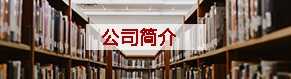
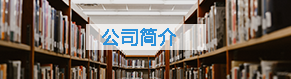
update color style

Changed region(s): [[0.3402, 0.3544, 0.6186, 0.5823]]

diff --git a/css/iztgm.css b/css/iztgm.css
@@ -288,7 +288,7 @@ select {
   width: 24px;
   height: 24px;
   font-size: 14px;
-  background: #a60100;
+  background: #2b90d9;
   color: #fff;
   border-radius: 100%;
   text-align: center;
@@ -304,7 +304,7 @@ select {
   font-size: 14px;
 }
 .die {
-  color: #a50000!important;
+  color: #2b90d9 !important;
 }
 .die:before {
   content: "|";
@@ -438,7 +438,7 @@ select {
 }
 .more {
   position: absolute;
-  color: #a60000;
+  color: #2b90d9;
   bottom: 8px;
   right: 15px;
   line-height: 13px;
@@ -450,7 +450,7 @@ select {
   color: #d33535;
 }
 .more a {
-  color: #a60000;
+  color: #2b90d9;
   font-family: "Calibri-Bold";
 }
 .content {
@@ -536,7 +536,7 @@ select {
 }
 .tq .title {
   position: absolute;
-  color: #a60000;
+  color: #2b90d9;
   top: 2px;
   left: 27px;
   font-size: 20px;
@@ -616,7 +616,7 @@ select {
   background: url(../imgs/arrow-red.png) no-repeat right center;
 }
 .cybd .tabs a {
-  color: #a60000;
+  color: #2b90d9;
 }
 .cybd .tabs a:hover {
   color: #d33535;
@@ -765,14 +765,14 @@ select {
   white-space: nowrap;
 }
 .items .item .info .status a {
-  color: #a60000;
+  color: #2b90d9;
   margin: 0 5px;
 }
 .items .item:hover {
   background: #fff;
 }
 .items .item:hover .date {
-  border-right: 1px solid #a60000;
+  border-right: 1px solid #2b90d9;
 }
 .tq-box,
 .gzsx-box {

diff --git a/css/index.css b/css/index.css
@@ -288,7 +288,7 @@ select {
   width: 24px;
   height: 24px;
   font-size: 14px;
-  background: #a60100;
+  background: #2b90d9;
   color: #fff;
   border-radius: 100%;
   text-align: center;
@@ -304,7 +304,7 @@ select {
   font-size: 14px;
 }
 .die {
-  color: #a50000!important;
+  color: #2b90d9 !important;
 }
 .die:before {
   content: "|";
@@ -438,7 +438,7 @@ select {
 }
 .more {
   position: absolute;
-  color: #a60000;
+  color: #2b90d9;
   bottom: 8px;
   right: 15px;
   line-height: 13px;
@@ -450,7 +450,7 @@ select {
   color: #d33535;
 }
 .more a {
-  color: #a60000;
+  color: #2b90d9;
   font-family: "Calibri-Bold";
 }
 .content {
@@ -652,7 +652,7 @@ select {
   font-size: 16px;
 }
 .gpxx .more a {
-  color: #a60000;
+  color: #2b90d9;
   cursor: pointer;
   font-family: "Calibri-Bold";
 }
@@ -692,7 +692,7 @@ select {
   margin-bottom: 13px;
 }
 .gsgk .title {
-  color: #a60000;
+  color: #2b90d9;
   margin: 6px 0;
 }
 .gsgk p {
@@ -749,7 +749,7 @@ select {
   background-color: #fff;
 }
 .swiper-pagination-bullet-active {
-  background-color: #a60000;
+  background-color: #2b90d9;
 }
 .swiper-container-horizontal > .swiper-pagination-bullets,
 .swiper-pagination-custom,

diff --git a/less/iztgm.less b/less/iztgm.less
@@ -71,7 +71,7 @@
     }
     .title{
         position: absolute;
-        color: #a60000;
+        color: @font-blue;
         top: 2px;
         left: 27px;
         font-size: 20px;
@@ -156,7 +156,7 @@
         padding-right: 10px;
         background: url(../imgs/arrow-red.png) no-repeat right center;
         a{
-            color: #a60000;
+            color: @font-blue;
             &:hover{
                 .moreHover;
             }
@@ -314,14 +314,14 @@
                 color: #666666;
                 .text-ellipsis;
                 a{
-                    color: #a60000;
+                    color: @font-blue;
                     margin: 0 5px;
                 }
             }
         }
         &:hover{
             .date{
-                border-right: 1px solid #a60000;
+                border-right: 1px solid @font-blue;
             }
             background: #fff;
         }

diff --git a/css/company.css b/css/company.css
@@ -288,7 +288,7 @@ select {
   width: 24px;
   height: 24px;
   font-size: 14px;
-  background: #a60100;
+  background: #2b90d9;
   color: #fff;
   border-radius: 100%;
   text-align: center;
@@ -304,7 +304,7 @@ select {
   font-size: 14px;
 }
 .die {
-  color: #a50000!important;
+  color: #2b90d9 !important;
 }
 .die:before {
   content: "|";
@@ -438,7 +438,7 @@ select {
 }
 .more {
   position: absolute;
-  color: #a60000;
+  color: #2b90d9;
   bottom: 8px;
   right: 15px;
   line-height: 13px;
@@ -450,7 +450,7 @@ select {
   color: #d33535;
 }
 .more a {
-  color: #a60000;
+  color: #2b90d9;
   font-family: "Calibri-Bold";
 }
 .content {
@@ -539,7 +539,7 @@ select {
 .dwxxq .titles .t2 .t,
 .dwxxq .titles .t3 .t {
   display: block;
-  color: #a60000;
+  color: #2b90d9;
   width: 121px;
   height: 100%;
   font-size: 18px;

diff --git a/less/common.less b/less/common.less
@@ -39,7 +39,7 @@
     text-overflow:ellipsis;
     white-space: nowrap;
 }
-
+@font-blue: #2b90d9;
 
 
 
@@ -114,7 +114,7 @@
   width: 24px;
   height: 24px;
   font-size: 14px;
-  background: #a60100;
+  background: @font-blue;
   color: #fff;
   border-radius: 100%;
   text-align: center;
@@ -130,7 +130,7 @@
   font-size: 14px;
 }
 .die {
-  color: #a50000!important;
+  color: @font-blue!important;
 }
 .die:before {
   content: "|";
@@ -265,7 +265,7 @@
 }
 .more {
   position: absolute;
-  color: #a60000;
+  color: @font-blue;
   bottom: 8px;
   right: 15px;
   line-height: 13px;
@@ -276,7 +276,7 @@
     .moreHover;
   }
   a{
-      color: #a60000;
+      color: @font-blue;
       font-family: "Calibri-Bold";
   }
 }

diff --git a/less/index.less b/less/index.less
@@ -194,7 +194,7 @@
         right: 20px;
         font-size: 16px;
         a{
-            color: #a60000;
+            color: @font-blue;
             cursor: pointer;
             font-family: "Calibri-Bold";
             &:hover{
@@ -236,7 +236,7 @@
       margin-bottom: 13px;
     }
     .title {
-      color: #a60000;
+      color: @font-blue;
       margin: 6px 0;
     }
     p {
@@ -295,7 +295,7 @@
     background-color: #fff;
 }
 .swiper-pagination-bullet-active{
-    background-color: #a60000;
+    background-color: @font-blue;
 }
 .swiper-container-horizontal>.swiper-pagination-bullets, .swiper-pagination-custom, .swiper-pagination-fraction{
     bottom: 6px;

diff --git a/css/common.css b/css/common.css
@@ -109,7 +109,7 @@
   width: 24px;
   height: 24px;
   font-size: 14px;
-  background: #a60100;
+  background: #2b90d9;
   color: #fff;
   border-radius: 100%;
   text-align: center;
@@ -125,7 +125,7 @@
   font-size: 14px;
 }
 .die {
-  color: #a50000!important;
+  color: #2b90d9 !important;
 }
 .die:before {
   content: "|";
@@ -259,7 +259,7 @@
 }
 .more {
   position: absolute;
-  color: #a60000;
+  color: #2b90d9;
   bottom: 8px;
   right: 15px;
   line-height: 13px;
@@ -271,6 +271,6 @@
   color: #d33535;
 }
 .more a {
-  color: #a60000;
+  color: #2b90d9;
   font-family: "Calibri-Bold";
 }

diff --git a/less/company.less b/less/company.less
@@ -87,7 +87,7 @@
             height: 100%;
             .t{
                 display: block;
-                color: #a60000;
+                color: @font-blue;
                 width: 121px;
                 height: 100%;
                 font-size: 18px;
